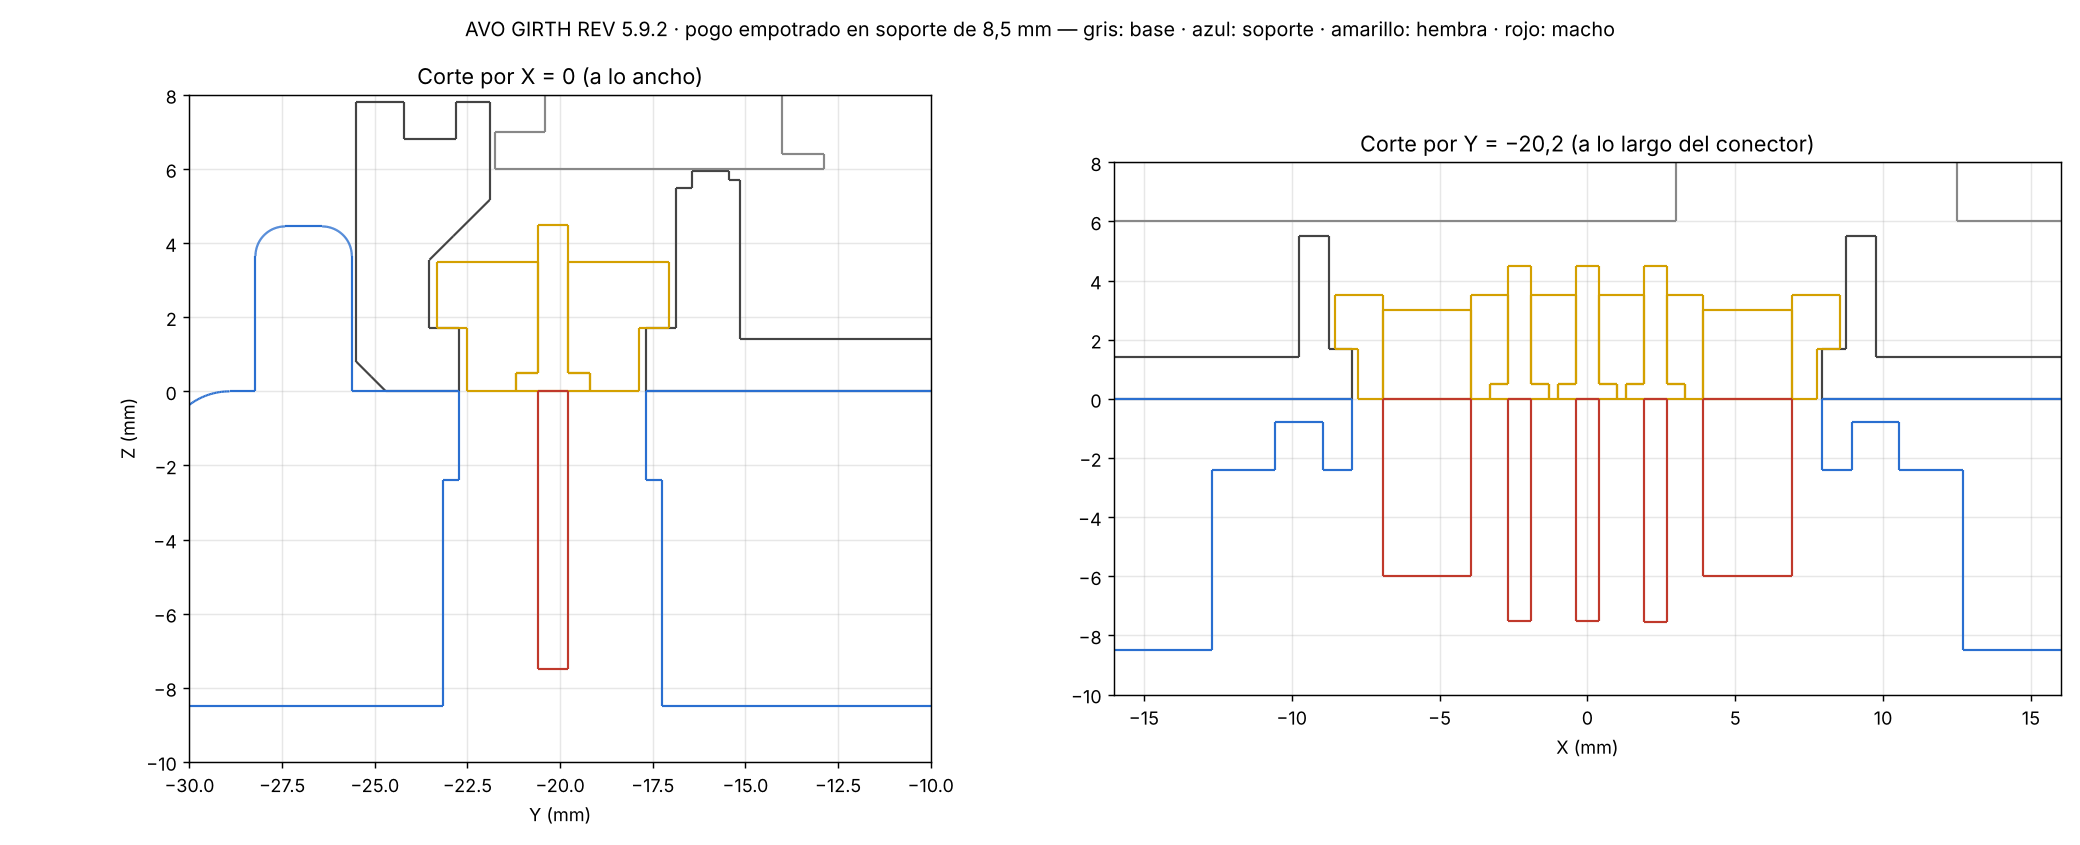
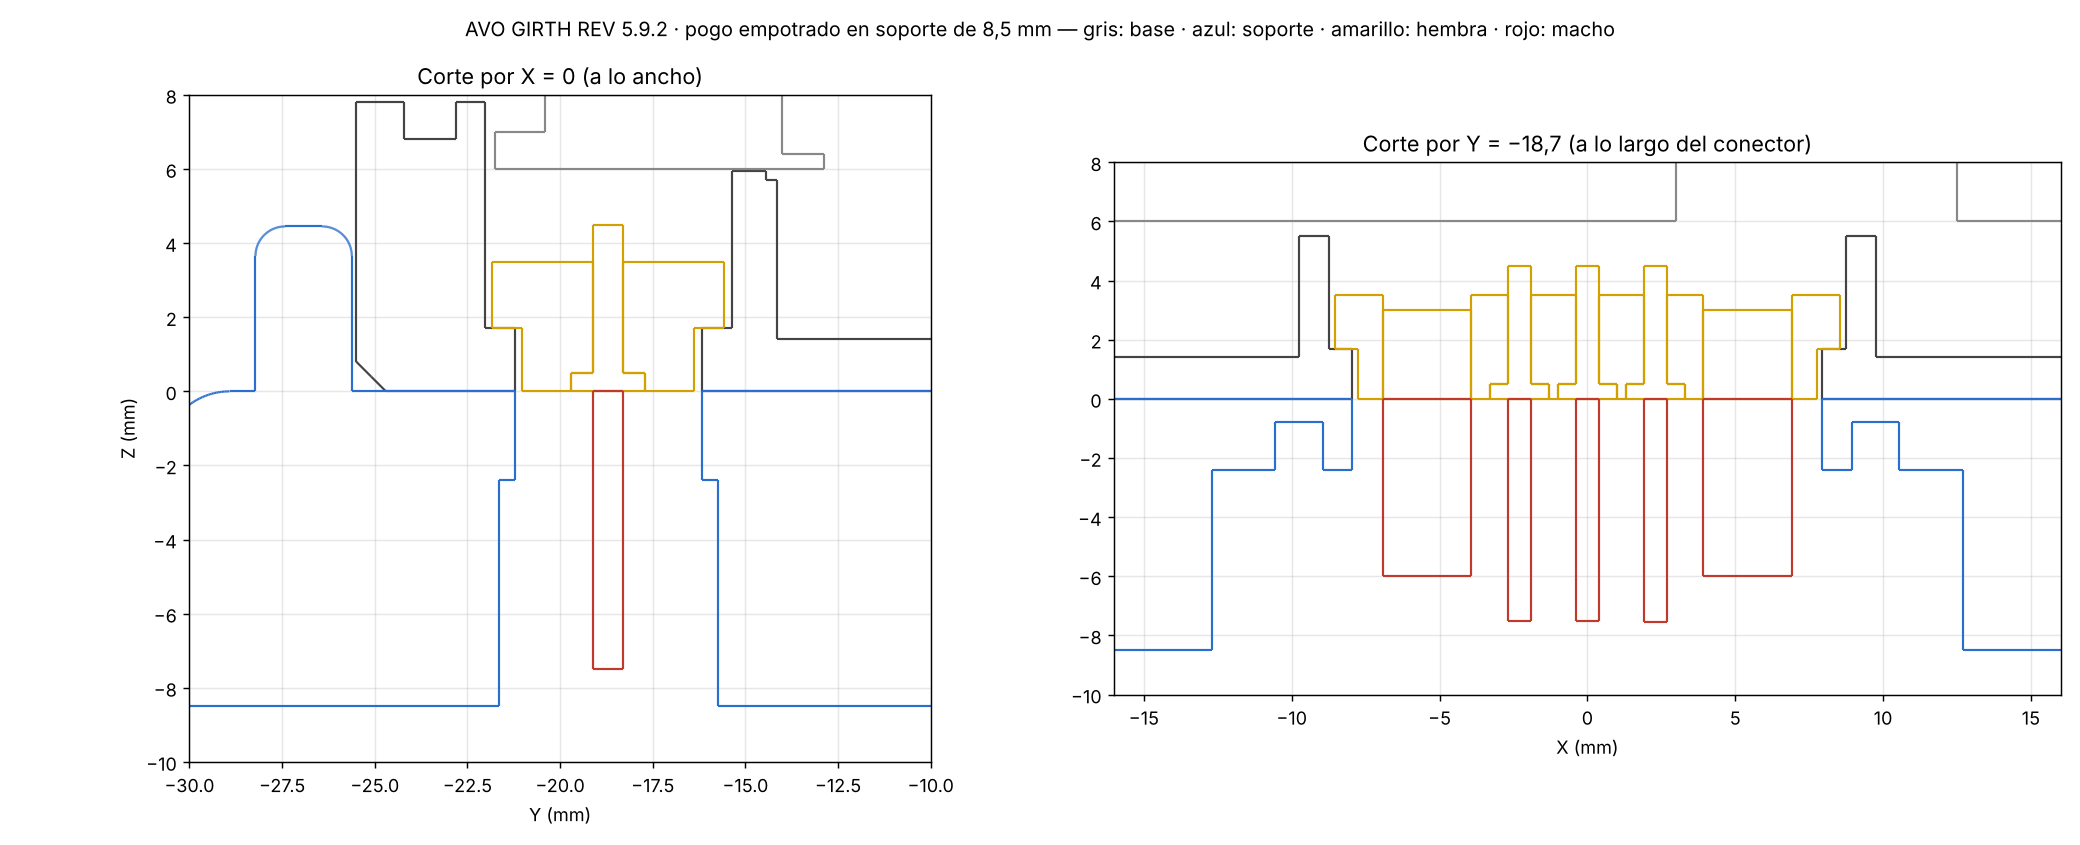
Cincha REV5.9.2: documentación del recorte de la pared [skip ci]
Claude-Session: https://claude.ai/code/session_01CFKdRMvEszajTemWxtmJHV

Changed region(s): [[0.2188, 0.3077, 0.375, 0.4923], [0.6562, 0.1538, 0.875, 0.1846], [0.3438, 0.1846, 0.375, 0.2154]]

diff --git a/docs/REGISTRO_DE_CAMBIOS.md b/docs/REGISTRO_DE_CAMBIOS.md
@@ -29,8 +29,10 @@ proyecto. Rama de integración: **`develop/avo-performance-horse`**.
 **Qué cambia:**
 - placa del soporte `MT` de 6,0 a 8,5 mm;
 - el lado de los pines del pogo (cuerpo de 6,0 + colas de 1,5) queda dentro de la placa, con 1,0 mm libre bajo las colas;
-- el rebaje de las orejas sigue abierto por abajo; tornillos M2 × 4 como máximo.
-**Por qué:** petición del usuario: «engrosar el soporte para que quede empotrado completamente el pogo».
+- el rebaje de las orejas sigue abierto por abajo; tornillos M2 × 4 como máximo;
+- la pared de la cápsula se recorta en vertical con la forma de la placa pogo, que entra desde arriba;
+- conector de y = −20,2 a y = −18,7 (0,8 mm de pared hasta la ranura de la junta); cuna de la batería 1,0 mm hacia +Y (`BAT_Y`).
+**Por qué:** petición del usuario: «engrosar el soporte para que quede empotrado completamente el pogo» y «recortar la pared para poder introducir por arriba el pogo sin problemas».
 **Validación:** CI sin interferencias y 1 sólido por pieza. NO VERIFICADO en impresión.
 
 ---

diff --git a/hardware/girth/REV5/README.md b/hardware/girth/REV5/README.md
@@ -4,6 +4,7 @@
 - La placa del soporte pasa de 6,0 a **8,5 mm** (soporte de 12,95 mm de alto con el cerco).
 - El cuerpo (6,0) y las colas de los pines (1,5) quedan dentro, con 1,0 mm libre bajo las colas para el puente soldado: nada sobresale por debajo.
 - El rebaje de las orejas sigue abierto por abajo (4,0 mm de hondo bajo las orejas). Tornillos **M2 × 4** como máximo.
+- **Placa pogo entra desde arriba:** la pared de la cápsula se recorta en vertical, con la forma de la placa, hasta arriba (antes el reborde quedaba bajo un techo a 45° de la pared). Para dejar 0,8 mm de pared hasta la ranura de la junta, el conector pasa de y = −20,2 a **y = −18,7** y la cuna de la batería se desplaza **1,0 mm hacia +Y**. En el lado +Y la propia cuna hace de pared de la copa de epoxi.
 - **CI:** sin interferencias, 1 sólido por pieza. Render: `renders/pogo_5_9_2_corte.png`.
 
 **REV 5.9.1: conector pogo según el modelo STEP real del usuario** (`ref/pogo_3pin_assembly.step`, medido en el CI por `inspect_pogo.py` → `out/pogo_step_medidas.txt`).
